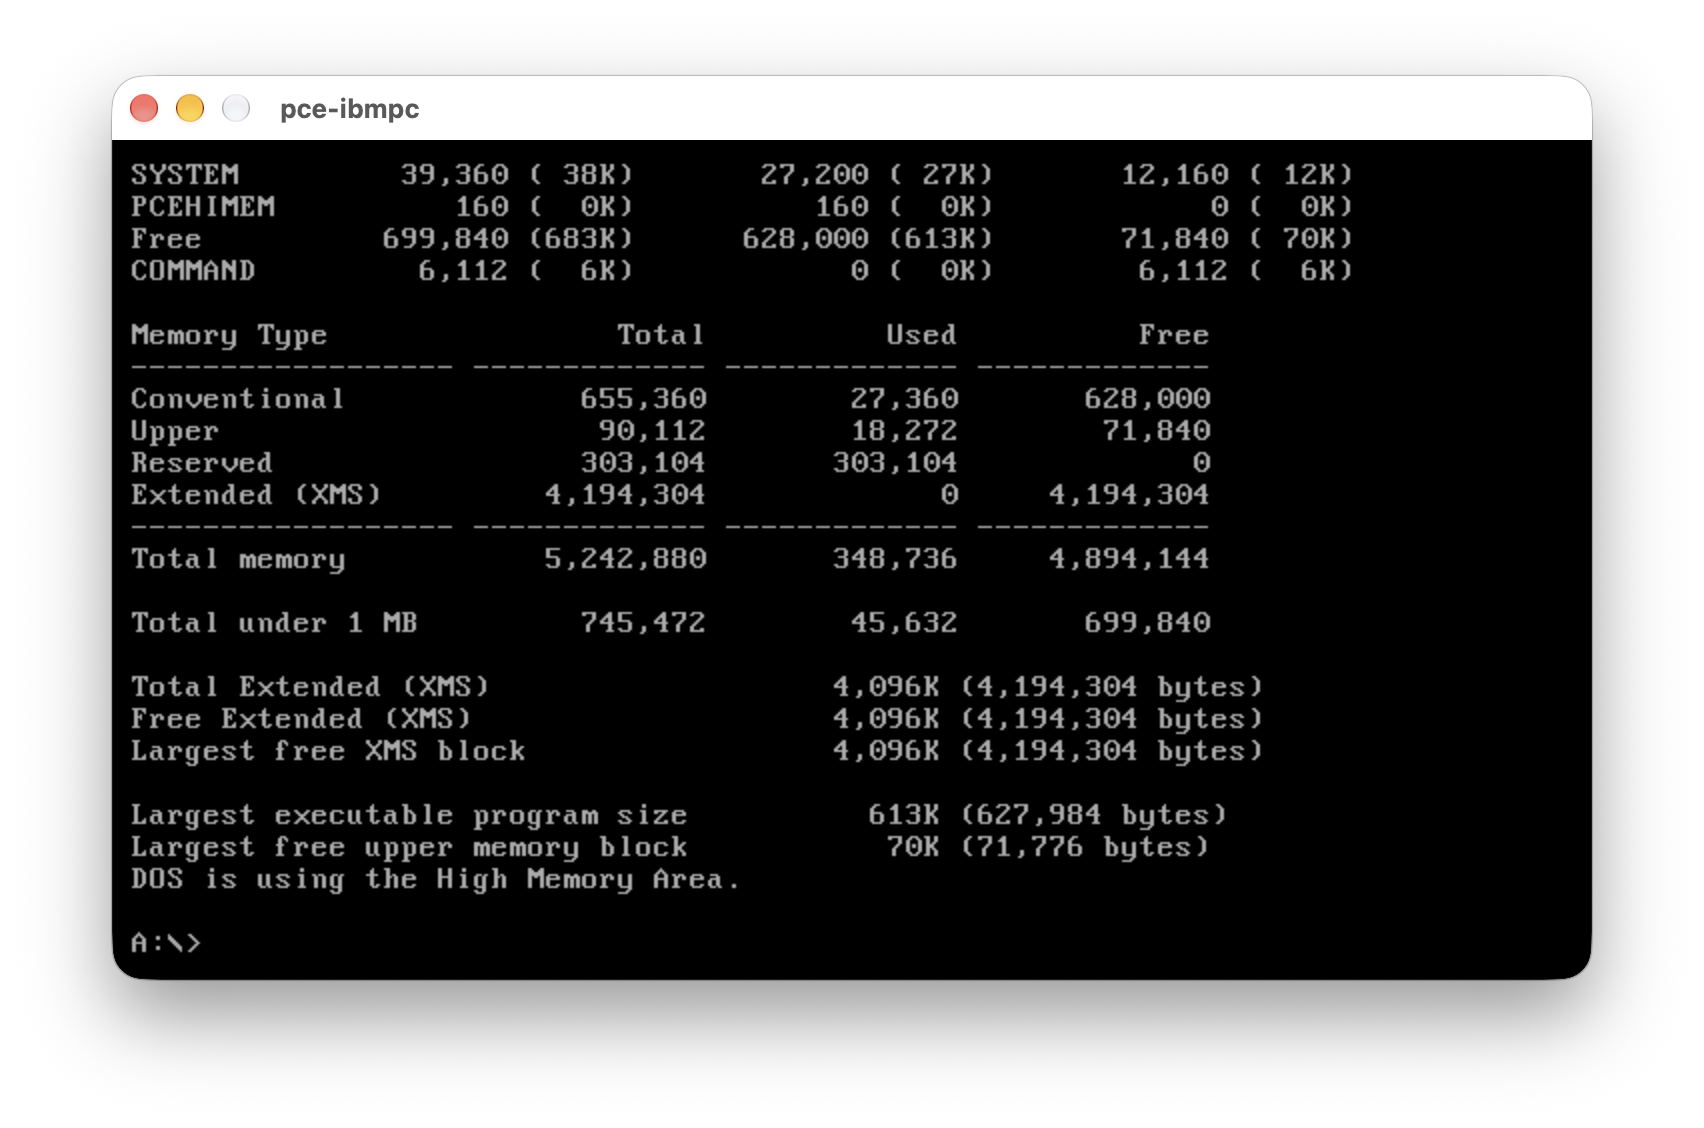
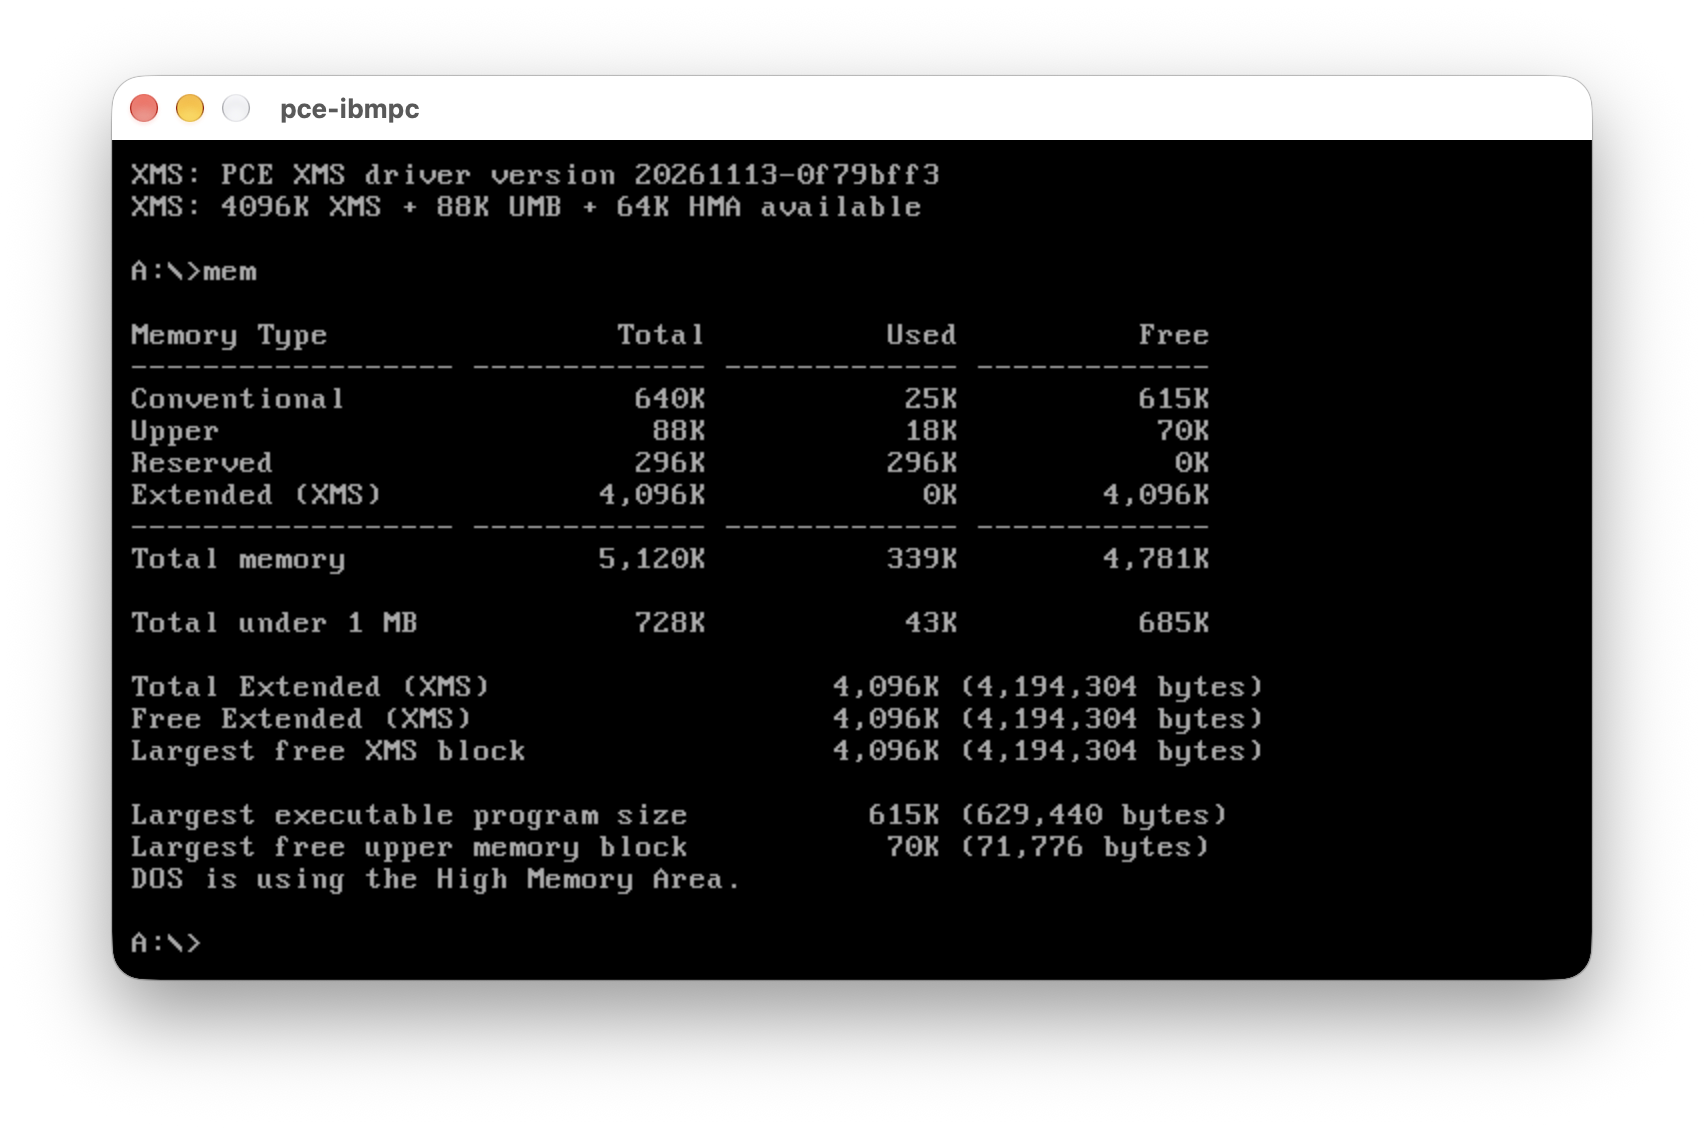
more screenshots

diff --git a/README.md b/README.md
@@ -2,11 +2,12 @@
 
 MS-DOS 4.01 rebuilt on Unix with GNU make and the original tools under `emu2`. The goal is a usable replacement for DOS 3.3 and 5.0. This project will carry on iteratively, also reviewing/fixing the original code to be both robust and dependable. It is a permissive opensource, lightweight, nimble cousin of freedos and opendos keeping close to the microsoft/ibm commercial dos versions. The version tag is 4.01N.
 
-_**Status Summary v1.7.0**: We already have:_
+_**Status Summary v1.8.0**: We already have:_
 - _native `HIMEM.SYS` for XMS 2.0 on AT-compatible 286 and later systems. and extended memory management of vdisk, ramdrive and smartdrv moved to XMS_
-- _HMA,UMB support with placement configurability for a large part of DOS and installed drivers and software (Up to 613KB of free application memory)_
+- _HMA,UMB support with placement configurability for a large part of DOS and installed drivers and software (Up to 615KB of free application memory)_
 - _all common commands are in line with DOS 5.0 with a few DOS 6.22 commands added._
 - _support for up to 8 hard drives._
+- _EGA and VGA graphics modes for the rebuilt GW-BASIC interpreter_
 
 _Some deliverate choice are made no to close the following gaps (doskey replaced only by simple command line editing, undelete/unformat, 2.88MB floppy format)._
 
@@ -15,7 +16,6 @@ _The remaining gaps are in the work:_
 - _setver_
 - _more to UMB and HMA_
 - _fully fledged text editor (currently shipped with [vi](https://github.com/tsupplis/cpm86-vi) as a reasonable place holder)_
-- _EGA and VGA graphics modes for the rebuilt GW-BASIC interpreter_
 
 We are progressing along the following roles:
 
@@ -27,7 +27,14 @@ We are progressing along the following roles:
 | **Usability** | Stay MS-DOS, smooth the angles. Command-line editing and recall, clearer memory diagnostics, BASIC (`gwbasic.exe` and `mbasic.com`) and a screen editor (`vi.exe`) on the full floppy. |
 | **Compatibility** | Match closely or exceed DOS 5.0 commands and functionality. For example some 6.X DOS command have been reimplemented and Y2K has a stronger enforcement (4 digit dates are mandatory) |
 
-![MS-DOS 4.01 running in PCE with upper memory enabled](images/mem.png)
+<p align="center">
+<img src="./images/mem.png" alt="MEM reporting conventional, upper and extended memory" width="48%">
+<img src="./images/menu.png" alt="DOS boot menu for selecting a system configuration" width="48%">
+<br><sub>Memory report &nbsp;·&nbsp; Boot configuration menu</sub><br>
+<img src="./images/gwbasic.png" alt="GW-BASIC 4.01N running under DOS" width="48%">
+<img src="./images/help.png" alt="HELP listing DOS commands and drivers" width="48%">
+<br><sub>GW-BASIC &nbsp;·&nbsp; Command and driver help</sub>
+</p>
 
 ## Sources
 
